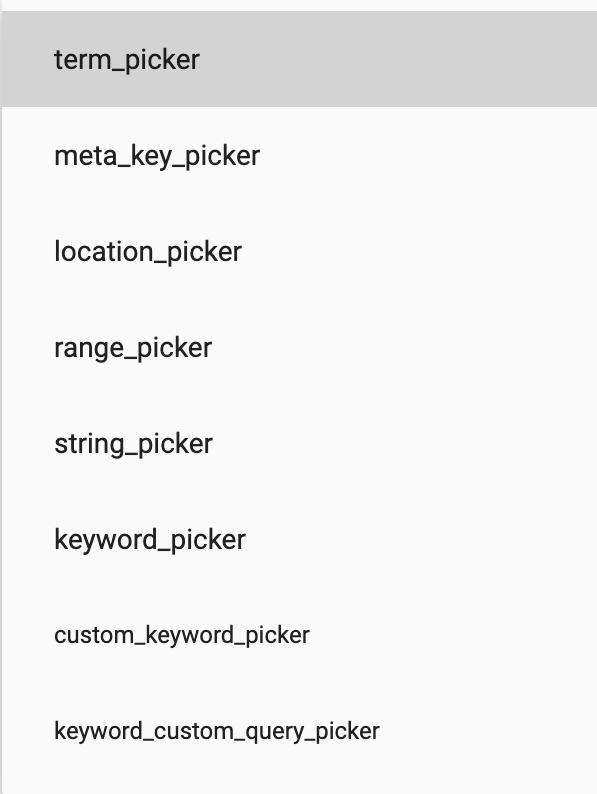
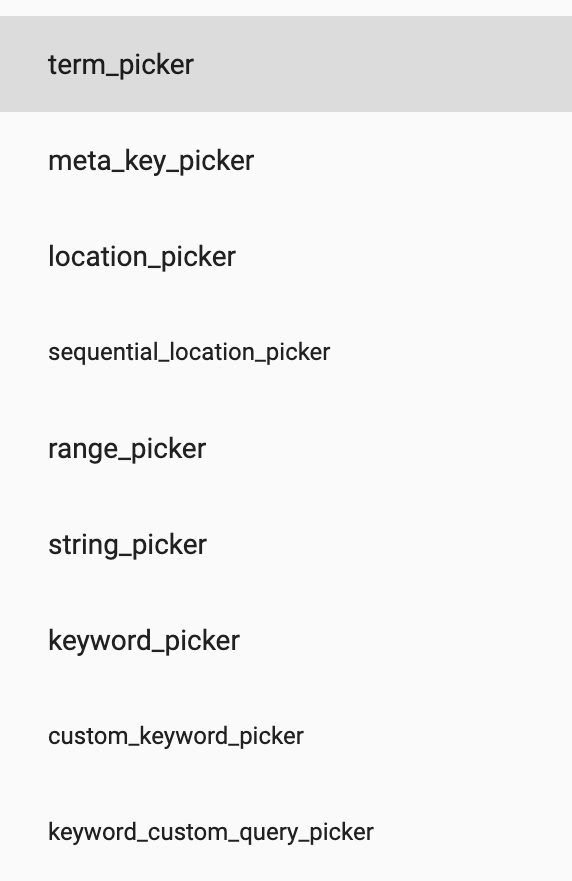
Updated search docs regarding support of "sequential_location_picker".

diff --git a/_docs/houzi-builder/9_customize-search.md b/_docs/houzi-builder/9_customize-search.md
@@ -50,6 +50,12 @@ You are provided with the dropdown list of  **Widget Types**. The details of wid
     - *Label* (e.g. hot-offer, open-house etc.)
     - *Features* (e.g. Air-Conditioning, Swimming-pool etc.)
 
+* **sequential_location_picker:** If you want to search properties w.r.t. their location and you do not want to use multiple pickers (e.g. one term picker for country, another for state, location picker for city and another term picker for the area input). You can simply use "**sequential_location_picker**".  You can enable/disable any location related term from the multi-select menu. Search with sequential_location_picker provide suppport for the following terms.
+  - *property_country*.
+  - *property_state*.
+  - *property_city*.
+  - *property_area*.
+
 * **location_picker:** If you want to search properties w.r.t. their
     - *City*
     - *Location*
@@ -185,6 +191,12 @@ You can define some additional customizations for some sections. For this purpos
   <img src="../../images/default-radius.png" alt="default-radius" title="default-radius" width= 300 border= "1px solid"/> 
   
   <img src="../../images/location-picker-additional-fields.png" alt="location-picker-additional-fields" title="location-picker-additional-fields" width= 300 border= "1px solid"/> 
+
+- If selected *Widget Type* is **sequential_location_picker**, you can customize the **Location Picker Hierarchy** form the  multi-select dropdown menu.
+
+  <img src="../../images/slp-hierarchy-01.png" alt="slp-hierarchy-01" title="slp-hierarchy-01" width= 300 border= "1px solid"/> 
+  
+  <img src="../../images/slp-hierarchy-02.png" alt="slp-hierarchy-02" title="slp-hierarchy-02" width= 300 border= "1px solid"/> 
 
 - If selected *Widget Type* is **range_picker**, you can define the *minimun* and *maximun* range of section in **Min Value**, **Max Value** and **Steps** fields. 
 
